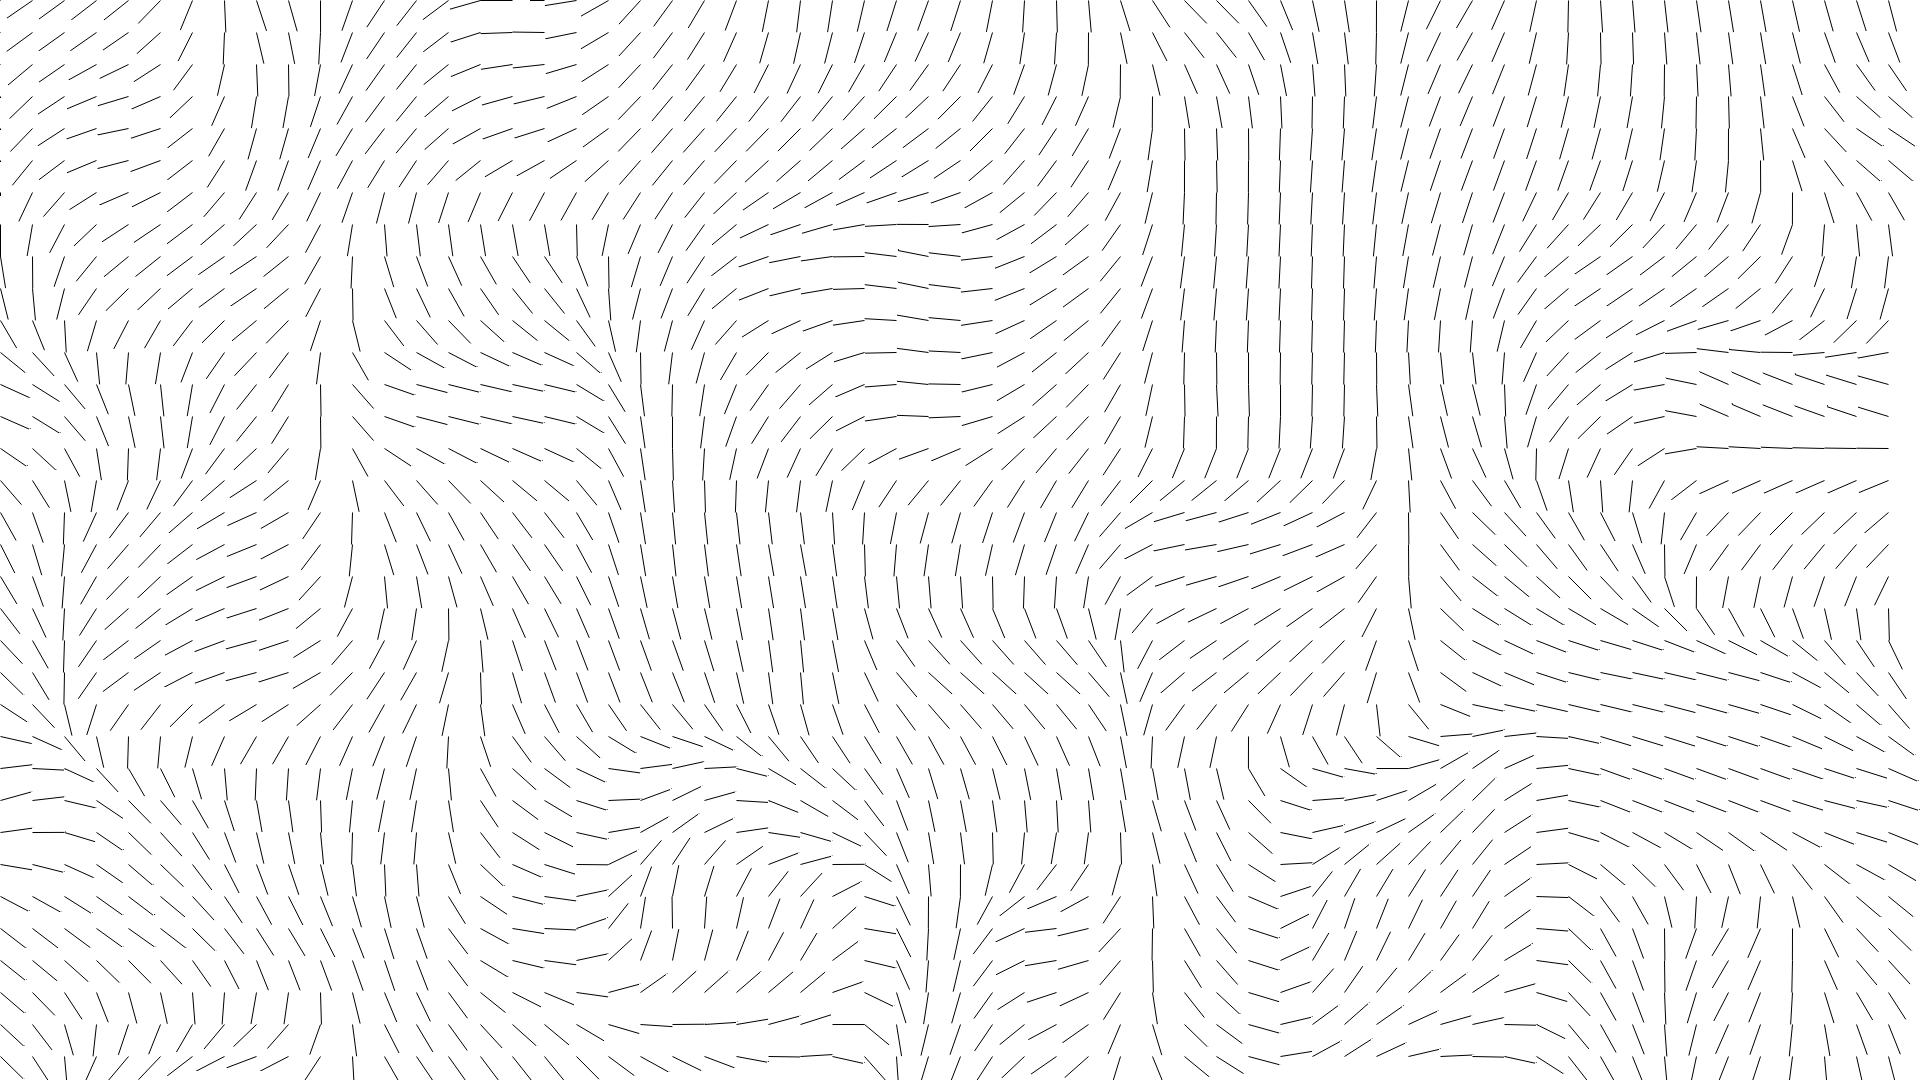
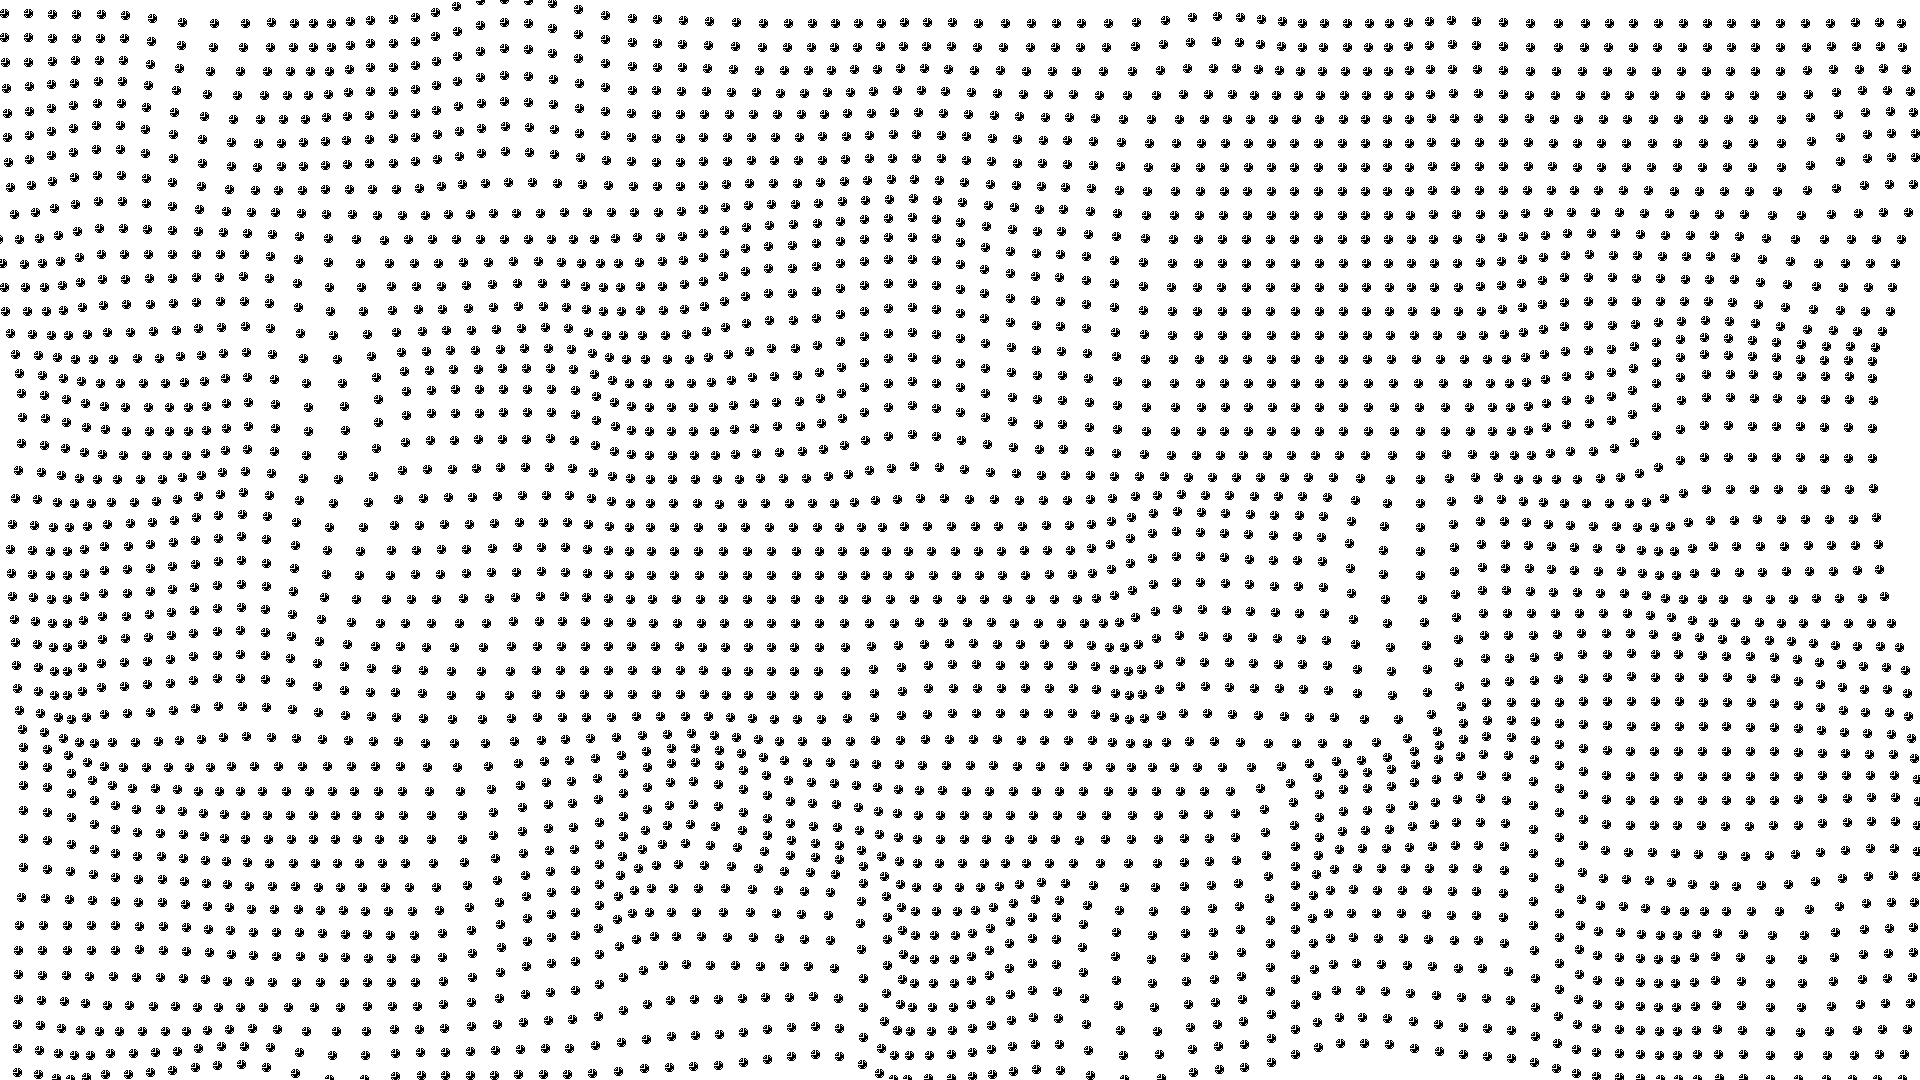
Updated perlin force field example

Changed region(s): [[0.0, 0.0, 1.0, 1.0]]

diff --git a/examples/perlin_force_field.rs b/examples/perlin_force_field.rs
@@ -10,7 +10,7 @@ fn display(canvas: &mut Canvas) {
     let perlin = PerlinNoise2D::new(1, amp, 0.75, 0.75, 10.0, (100.0, 100.0), 0.5, 101);
     let width = canvas.get_width() as usize;
     let height = canvas.get_height() as usize;
-    let step = 32;
+    let step = 24;
 
     for row in (0..height).step_by(step) {
         for col in (0..width).step_by(step) {
@@ -18,9 +18,14 @@ fn display(canvas: &mut Canvas) {
             let angle = 2.0 * std::f32::consts::PI * norm(noise, 0.0, amp as f32);
             let x = step as f32 * angle.cos() + row as f32;
             let y = step as f32 * angle.sin() + col as f32;
-            let points = vec![Point::new(row as f32, col as f32), Point::new(x, y)];
-            let mut line = Line_aa::new(points, (0, 0, 0, 255), 1, canvas);
-            line.draw(canvas);
+            // let points = vec![Point::new(row as f32, col as f32), Point::new(x, y)];
+            // let mut line = Line_aa::new(points, (0, 0, 0, 255), 1, canvas);
+            // line.draw(canvas);
+            for i in 0..5 {
+                let mut circle = Circle::new(Point::new(x, y), i as f32, (0, 0, 0, 255), 1);
+                circle.draw(canvas);
+            }
+            // canvas.set_pixel_at(x as usize, y as usize, (0, 0, 0, 255));
         }
     }
 }
